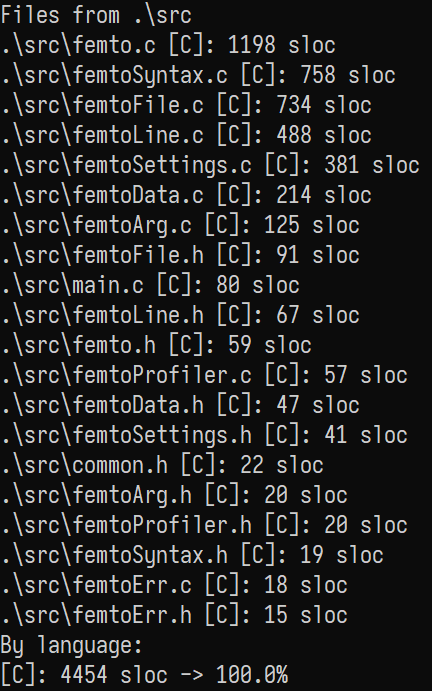
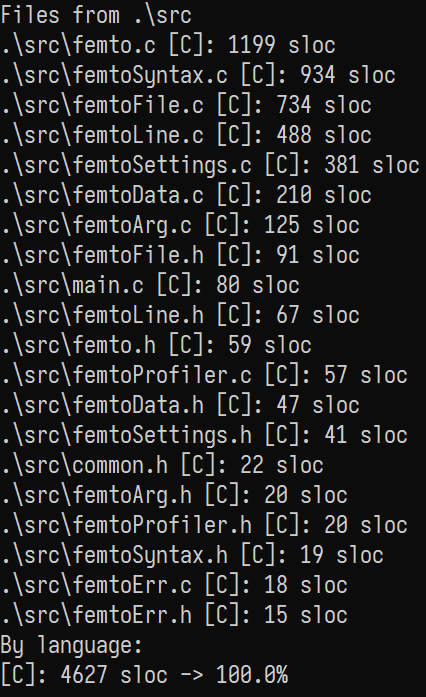
Perfect syntax highlighting

Changed region(s): [[0.0, 0.0, 0.9765, 1.0], [0.4272, 0.9421, 0.6714, 1.0], [0.7324, 0.4255, 0.8545, 0.4863]]

diff --git a/src/femtoSyntax.c b/src/femtoSyntax.c
@@ -408,7 +408,8 @@ bool fSyntaxParseC(femtoLineNode_t * restrict node)
 	
 	blockComment = (node->prevNode != NULL) ? node->prevNode->blockComment : false;
 
-	for (uint32_t i = 0, j = 0, previ = 0; i < node->lineEndx; ++i, ++j)
+	uint32_t previ = 0;
+	for (uint32_t i = 0, j = 0; i < node->lineEndx; ++i, ++j)
 	{
 		if ((i == node->curx) && (node->freeSpaceLen > 0))
 		{
@@ -516,6 +517,7 @@ bool fSyntaxParseC(femtoLineNode_t * restrict node)
 			case L'<':
 			case L'>':
 			case L'=':
+			case L';':
 			case L':':
 				node->syntax[j] = FOREGROUND_GREEN;
 				/* fall through */
@@ -587,6 +589,11 @@ bool fSyntaxParseC(femtoLineNode_t * restrict node)
 		previ = i;
 	}
 
+	if (!blockComment && !comment && !preproc && !quoteMode)
+	{
+		checkCToken(node, tokenStart, previ);
+	}
+
 	node->blockComment = blockComment;
 
 	return true;
@@ -604,7 +611,8 @@ bool fSyntaxParseCpp(femtoLineNode_t * restrict node)
 	
 	blockComment = (node->prevNode != NULL) ? node->prevNode->blockComment : false;
 
-	for (uint32_t i = 0, j = 0, previ = 0; i < node->lineEndx; ++i, ++j)
+	uint32_t previ = 0;
+	for (uint32_t i = 0, j = 0; i < node->lineEndx; ++i, ++j)
 	{
 		if ((i == node->curx) && (node->freeSpaceLen > 0))
 		{
@@ -713,6 +721,7 @@ bool fSyntaxParseCpp(femtoLineNode_t * restrict node)
 			case L'>':
 			case L'=':
 			case L':':
+			case L';':
 				node->syntax[j] = FOREGROUND_GREEN;
 				/* fall through */
 			case L' ':
@@ -783,6 +792,11 @@ bool fSyntaxParseCpp(femtoLineNode_t * restrict node)
 		previ = i;
 	}
 
+	if (!blockComment && !comment && !preproc && !quoteMode)
+	{
+		checkCPPToken(node, tokenStart, previ);
+	}
+
 	node->blockComment = blockComment;
 
 	return true;
@@ -793,7 +807,30 @@ bool fSyntaxParseMd(femtoLineNode_t * restrict node)
 	{
 		return false;
 	}
-
+	
+	/*
+		Markdown logic:
+		
+		Find '#' at the beginning of the line, there can be less than tabWidth worth of spaces
+		Count number of spaces at beginning of line, if more than tabWidth, highlight
+		If less than tabWidth search dash '-'
+		
+		Patterns:
+		![asd]
+		[asd]
+		...[asd](text)
+		*asd* & _asd_
+		**asd** & __asd__
+		~~sdd~~
+		
+	*/
+	
+	uint32_t firstChIdx = 0;
+	bool done = false, headingMode = false, valueMode = false, bracketMode = false,
+		extraBracketMode = false, italicsMode = false, boldMode = false,
+		containsStar = false, strikeMode = false, parenMode1 = false,
+		parenMode2 = false, enable = false, coneMode = false;
+	
 	for (uint32_t i = 0, j = 0, previ = 0; i < node->lineEndx; ++i, ++j)
 	{
 		if ((i == node->curx) && (node->freeSpaceLen > 0))
@@ -805,7 +842,169 @@ bool fSyntaxParseMd(femtoLineNode_t * restrict node)
 		}
 		node->syntax[j] = FEMTO_DEFAULT_COLOR;
 
+		const wchar_t ch = node->line[i];
 		
+		if (valueMode)
+		{
+			node->syntax[j] = FOREGROUND_INTENSITY | FOREGROUND_RED | FOREGROUND_BLUE;
+		}
+		else if (coneMode)
+		{
+			node->syntax[j] = FOREGROUND_RED | FOREGROUND_GREEN;
+		}
+		else if (strikeMode)
+		{
+			if ((ch == L'~') && (node->line[previ] == L'~'))
+			{
+				strikeMode = false;
+				node->syntax[j-1] = FOREGROUND_INTENSITY | FOREGROUND_GREEN | FOREGROUND_BLUE;
+				node->syntax[j] = FOREGROUND_INTENSITY | FOREGROUND_GREEN | FOREGROUND_BLUE;
+			}
+			else
+			{
+				node->syntax[j] = FOREGROUND_INTENSITY;
+			}
+		}
+		else if (italicsMode)
+		{
+			if (containsStar && ( ( (ch == L'*') && (node->line[previ] == L'*') ) || ( (ch == L'_') && (node->line[previ] == L'_') ) ) )
+			{
+				boldMode = true;
+				italicsMode = false;
+				node->syntax[j] = FOREGROUND_INTENSITY | FOREGROUND_GREEN | FOREGROUND_BLUE;
+			}
+			else if ((ch == L'*') || (ch == L'_'))
+			{
+				italicsMode = false;
+				node->syntax[j] = FOREGROUND_INTENSITY | FOREGROUND_GREEN | FOREGROUND_BLUE;
+			}
+			else
+			{
+				node->syntax[j] = FOREGROUND_INTENSITY | FOREGROUND_RED;
+			}
+
+			containsStar = false;
+		}
+		else if (boldMode)
+		{
+			if ( ( (ch == L'*') && (node->line[previ] == L'*') ) || ( (ch == L'_') && (node->line[previ] == L'_') ) )
+			{
+				boldMode = false;
+				node->syntax[j] = FOREGROUND_INTENSITY | FOREGROUND_GREEN | FOREGROUND_BLUE;
+				node->syntax[j-1] = FOREGROUND_INTENSITY | FOREGROUND_GREEN | FOREGROUND_BLUE;
+			}
+			else
+			{
+				node->syntax[j] = FOREGROUND_RED | FOREGROUND_BLUE;
+			}
+		}
+		else if (bracketMode)
+		{
+			if (ch == L']')
+			{
+				bracketMode = false;
+				extraBracketMode = false;
+				parenMode1 = true;
+				node->syntax[j] = FOREGROUND_INTENSITY | FOREGROUND_GREEN | FOREGROUND_BLUE;
+			}
+			else
+			{
+				node->syntax[j] = extraBracketMode ? FOREGROUND_INTENSITY | FOREGROUND_GREEN : FOREGROUND_GREEN;
+			}
+		}
+		else if (parenMode1)
+		{
+			parenMode1 = false;
+			if (ch == L'(')
+			{
+				parenMode2 = true;
+				node->syntax[j] = FOREGROUND_INTENSITY | FOREGROUND_GREEN | FOREGROUND_BLUE;
+			}
+		}
+		else if (parenMode2)
+		{
+			if (ch == L')')
+			{
+				parenMode2 = false;
+				node->syntax[j] = FOREGROUND_INTENSITY | FOREGROUND_GREEN | FOREGROUND_BLUE;
+			}
+			else
+			{
+				node->syntax[j] = FOREGROUND_INTENSITY | FOREGROUND_BLUE;
+			}
+		}
+		else if (headingMode)
+		{
+			node->syntax[j] = FOREGROUND_INTENSITY | FOREGROUND_RED | FOREGROUND_GREEN;
+		}
+		else if (!done)
+		{
+			if (ch == L'#')
+			{
+				headingMode = true;
+				node->syntax[j] = FOREGROUND_INTENSITY | FOREGROUND_RED | FOREGROUND_GREEN;
+			}
+			else if (ch == L'-')
+			{
+				// Dash coloring
+				node->syntax[j] = FOREGROUND_INTENSITY | FOREGROUND_GREEN | FOREGROUND_BLUE;
+			}
+			else if (ch == L'>')
+			{
+				node->syntax[j] = FOREGROUND_INTENSITY | FOREGROUND_GREEN | FOREGROUND_BLUE;
+				coneMode = true;
+			}
+			if ((ch != L' ') && (ch != L'\t'))
+			{
+				done = true;
+				enable = true;
+				if (firstChIdx >= 4)
+				{
+					valueMode = true;
+					node->syntax[j] = FOREGROUND_INTENSITY | FOREGROUND_RED | FOREGROUND_BLUE;
+				}
+			}
+			else if (ch == L' ')
+			{
+				firstChIdx += 1;
+			}
+			else if (ch == L'\t')
+			{
+				firstChIdx += 4;
+			}
+		}
+		else
+		{
+			enable = true;
+		}
+
+		if (enable)
+		{
+			enable = false;
+
+			if (ch == L'[')
+			{
+				bracketMode = true;
+				if ((previ > 0) && (node->line[previ] == L'!'))
+				{
+					node->syntax[j-1] = FOREGROUND_INTENSITY | FOREGROUND_GREEN | FOREGROUND_BLUE;
+					extraBracketMode = true;
+				}
+				node->syntax[j] = FOREGROUND_INTENSITY | FOREGROUND_GREEN | FOREGROUND_BLUE;
+			}
+			else if ((ch == L'*') || (ch == L'_'))
+			{
+				containsStar = true;
+				italicsMode = true;
+				node->syntax[j] = FOREGROUND_INTENSITY | FOREGROUND_GREEN | FOREGROUND_BLUE;
+			}
+			else if ((ch == L'~') && (previ > 0) && (node->line[previ] == L'~'))
+			{
+				strikeMode = true;
+				node->syntax[j-1] = FOREGROUND_INTENSITY | FOREGROUND_GREEN | FOREGROUND_BLUE;
+				node->syntax[j] = FOREGROUND_INTENSITY | FOREGROUND_GREEN | FOREGROUND_BLUE;
+			}
+		}
 
 		previ = i;
 	}

diff --git a/src/femtoData.c b/src/femtoData.c
@@ -51,13 +51,8 @@ bool femtoData_init(femtoData_t * restrict self)
 		return false;
 	}
 
-	// Set extended mode
-	if (!SetConsoleMode(self->conIn, ENABLE_EXTENDED_FLAGS))
-	{
-		return false;
-	}
-	// Disable quick edit mode
-	if (!SetConsoleMode(self->conIn, ENABLE_WINDOW_INPUT | ENABLE_MOUSE_INPUT))
+	// Set extended mode and disable quick edit mode
+	if (!SetConsoleMode(self->conIn, ENABLE_EXTENDED_FLAGS | ENABLE_WINDOW_INPUT | ENABLE_MOUSE_INPUT))
 	{
 		return false;
 	}

diff --git a/src/common.h b/src/common.h
@@ -26,6 +26,6 @@
 #define FEMTO_MOVELINE_UP   0x89
 #define FEMTO_MOVELINE_DOWN 0x8A
 
-#define FEMTO_DEFAULT_COLOR (FOREGROUND_GREEN | FOREGROUND_BLUE | FOREGROUND_INTENSITY)
+#define FEMTO_DEFAULT_COLOR (FOREGROUND_RED | FOREGROUND_GREEN | FOREGROUND_BLUE)
 
 #endif

diff --git a/README.md b/README.md
@@ -13,7 +13,7 @@ It is also written in vanilla C & Win32 Console API - it's designed to be used s
 It has been compiled with MinGW GCC.
 
 Currently, my other tool [slocWin32](https://github.com/makuke1234/slocWin32)
-reports ~4500 source code lines (excluding whitespace, comments & [jsonlite2](https://github.com/makuke1234/jsonlite2) library):
+reports ~4700 source code lines (excluding whitespace, comments & [jsonlite2](https://github.com/makuke1234/jsonlite2) library):
 
 ![SLOC](./images/sloc.png)
 
@@ -154,6 +154,9 @@ reports ~4500 source code lines (excluding whitespace, comments & [jsonlite2](ht
 
 ## C++ syntax highlighting
 ![!C++ syntax](./images/syntaxCPP.png)
+
+## Markdown syntax highlighting
+![!MD syntax](./images/syntaxMD.png)
 
 
 # Changelog

diff --git a/images/test.md b/images/test.md
@@ -1,0 +1,12 @@
+# Heading 1
+
+> This is some description text
+
+
+## Heading 2
+
+You can download it [here!](link.html)
+*Or* [here.](link2.html)
+~~Definitely not here~~
+
+**Enjoy!**
